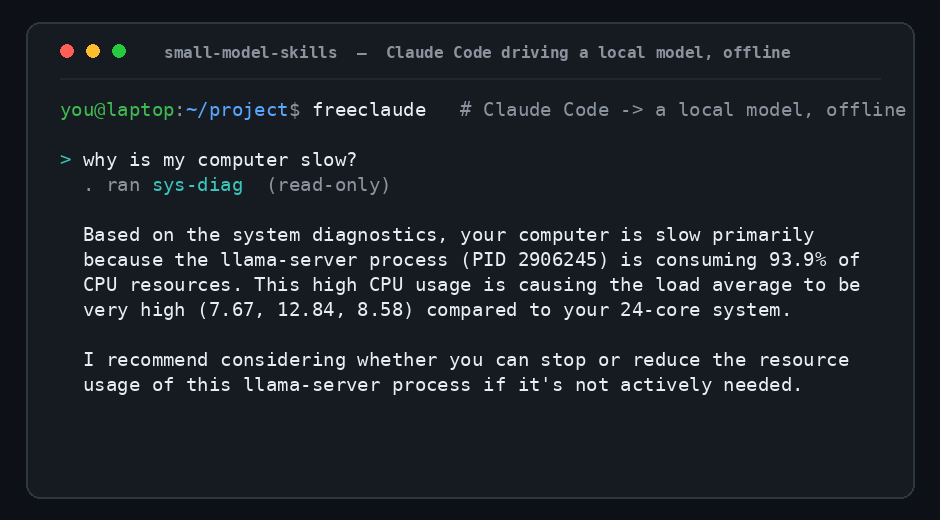
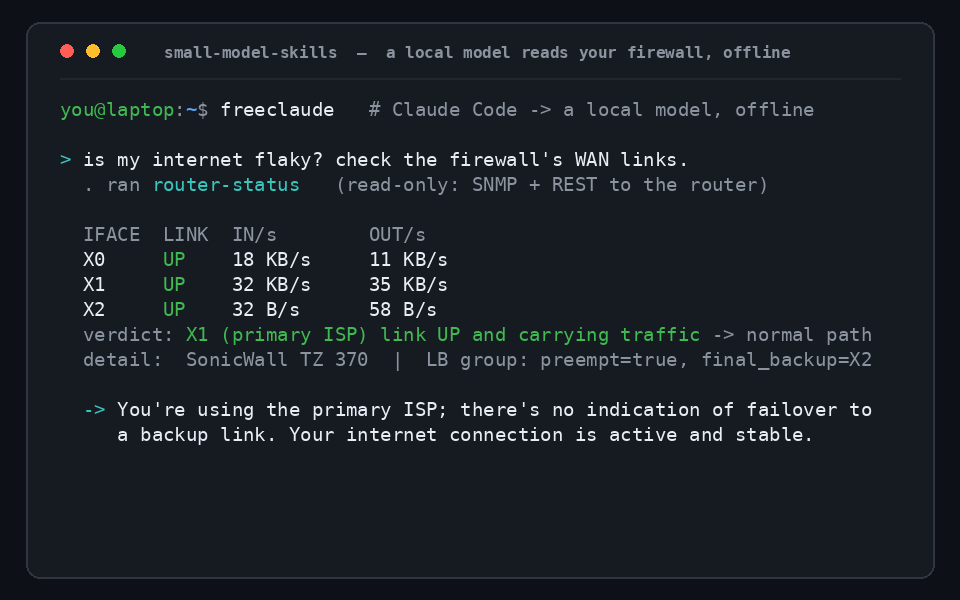
demo: feature the SonicWall WAN read (router-status), verbatim real capture
Replaces the sys-diag demo with the flagship: a local model runs router-status,
which reads the SonicWall's WAN links + failover over SNMP + REST, fully offline.
The interface table + verdict are the wrapper's verbatim output; the closing line
is the model's own verbatim verdict. No private data (no LAN IPs / serial).

Claude-Session: https://claude.ai/code/session_01DrmJce95eAT8cVwLqjA5fJ

diff --git a/media/build-demo.py b/media/build-demo.py
@@ -2,10 +2,11 @@
 """Render the small-model-skills demo as a terminal animation -> media/demo.gif (+ poster).
 
 No screen recording: frames are drawn with Pillow; the typing/streaming is synthesized.
-The TEXT is a REAL capture — a local model (qwen3-coder-cc) that actually ran the read-only
-`sys-diag` skill on the author's workstation (2026-07-06) and reported back, verbatim. One
-middle paragraph is omitted for length and the shell prompt is genericized; the wording of
-the model's answer is unchanged. Regenerate with:  python3 media/build-demo.py
+The content is a REAL capture on the author's workstation (2026-07-06): a local model
+(qwen3-coder-cc) ran the read-only `router-status` skill, which reads the WAN links off a
+SonicWall over SNMP + REST — offline. The interface table + verdict are that wrapper's
+verbatim output; the closing two lines are the model's own verbatim verdict (the gateway IP
+it mentioned is omitted). Nothing is invented. Regenerate with:  python3 media/build-demo.py
 """
 import os
 from PIL import Image, ImageDraw, ImageFont
@@ -13,8 +14,8 @@ from PIL import Image, ImageDraw, ImageFont
 HERE = os.path.dirname(os.path.abspath(__file__))
 MONO  = "/usr/share/fonts/truetype/dejavu/DejaVuSansMono.ttf"
 MONOB = "/usr/share/fonts/truetype/dejavu/DejaVuSansMono-Bold.ttf"
-W, H = 940, 520
-BG   = (13, 17, 23)          # generic dark terminal
+W, H = 960, 600
+BG   = (13, 17, 23)
 CARD = (22, 27, 34); EDGE = (48, 54, 61)
 TXT  = (230, 237, 243); MUT = (139, 148, 158)
 GRN  = (63, 185, 80); BLUE = (88, 166, 255); CYAN = (57, 197, 187); AMBER = (240, 180, 60)
@@ -32,7 +33,7 @@ def base():
         x = CARD_XY[0] + PAD + i*26
         d.ellipse([x, CARD_XY[1]+22, x+13, CARD_XY[1]+35], fill=c)
     d.text((CARD_XY[0]+PAD+104, CARD_XY[1]+21),
-           "small-model-skills  —  Claude Code driving a local model, offline", font=chip, fill=MUT)
+           "small-model-skills  —  a local model reads your firewall, offline", font=chip, fill=MUT)
     d.line([CARD_XY[0]+PAD, CARD_XY[1]+56, CARD_XY[2]-PAD, CARD_XY[1]+56], fill=(33, 38, 45), width=2)
     return img, d
 
@@ -51,30 +52,30 @@ def emit(lines, n=1):
     img, d = base(); put(d, lines)
     for _ in range(n): frames.append(img.copy())
 
-PROMPT = [("you@laptop", GRN), (":", MUT), ("~/project", BLUE), ("$ ", MUT)]
-
-# 1) launch line (already typed) + comment
+PROMPT = [("you@laptop", GRN), (":", MUT), ("~", BLUE), ("$ ", MUT)]
 launch = [PROMPT + [("freeclaude", TXT), ("   # Claude Code -> a local model, offline", MUT)]]
-# 2) type the plain-English question
-q = "why is my computer slow?"
+
+# type the plain-English question
+q = "is my internet flaky? check the firewall's WAN links."
 head = launch + [[("", TXT)]]
 for i in range(len(q)+1):
-    cur = [("> ", CYAN), (q[:i], TXT), ("_" if i < len(q) else "", MUT)]
-    emit(head + [cur], 2)
+    emit(head + [[("> ", CYAN), (q[:i], TXT), ("_" if i < len(q) else "", MUT)]], 2)
 ask = head + [[("> ", CYAN), (q, TXT)]]
 emit(ask, 4)
 
-# 3) the skill runs (read-only), then the answer streams in — real, genericized output
+# the skill runs router-status (real, verbatim output), then the model's verbatim verdict
 ans = [
-    [("  . ran ", MUT), ("sys-diag", CYAN), ("  (read-only)", MUT)],
+    [("  . ran ", MUT), ("router-status", CYAN), ("   (read-only: SNMP + REST to the router)", MUT)],
     [("", TXT)],
-    [("  Based on the system diagnostics, your computer is slow primarily", TXT)],
-    [("  because the llama-server process (PID 2906245) is consuming 93.9% of", TXT)],
-    [("  CPU resources. This high CPU usage is causing the load average to be", TXT)],
-    [("  very high (7.67, 12.84, 8.58) compared to your 24-core system.", TXT)],
+    [("  IFACE  LINK  IN/s        OUT/s", MUT)],
+    [("  X0     ", TXT), ("UP", GRN), ("    18 KB/s     11 KB/s", TXT)],
+    [("  X1     ", TXT), ("UP", GRN), ("    32 KB/s     35 KB/s", TXT)],
+    [("  X2     ", TXT), ("UP", GRN), ("    32 B/s      58 B/s", TXT)],
+    [("  verdict: ", MUT), ("X1 (primary ISP) link UP and carrying traffic", GRN), (" -> normal path", MUT)],
+    [("  detail:  SonicWall TZ 370  |  LB group: preempt=true, final_backup=X2", MUT)],
     [("", TXT)],
-    [("  I recommend considering whether you can stop or reduce the resource", TXT)],
-    [("  usage of this llama-server process if it's not actively needed.", TXT)],
+    [("  ", TXT), ("->", CYAN), (" You're using the primary ISP; there's no indication of failover to", TXT)],
+    [("     a backup link. Your internet connection is active and stable.", TXT)],
 ]
 shown = []
 for line in ans:

diff --git a/README.md b/README.md
@@ -7,9 +7,9 @@
 can't (or won't) run a frontier or 70B model.** Diagnostics and offline-dev help for a Linux
 workstation, driven by a ~7–30B model on a consumer GPU or CPU, fully offline.
 
-![small-model-skills — a local model diagnosing "why is my computer slow?" fully offline](media/demo.gif)
+![small-model-skills — a local model reading a SonicWall's WAN/failover status over SNMP+REST, fully offline](media/demo.gif)
 
-<sub>Real capture: a small local model (`qwen3-coder-cc`) ran the read-only `sys-diag` skill and explained the result — here, that the local LLM server itself was the CPU hog. Rendered verbatim from the captured text with `python3 media/build-demo.py` (Pillow, no screen recording).</sub>
+<sub>Real capture: a small local model (`qwen3-coder-cc`), fully offline, ran the read-only `router-status` skill — which reads your SonicWall's WAN links over SNMP + REST — and reported the failover state (primary ISP up and carrying traffic, backup idle). The interface table + verdict are that wrapper's verbatim output; the closing line is the model's own verbatim verdict. Rendered with `python3 media/build-demo.py` (Pillow, no screen recording).</sub>
 
 ## Why this exists
 
